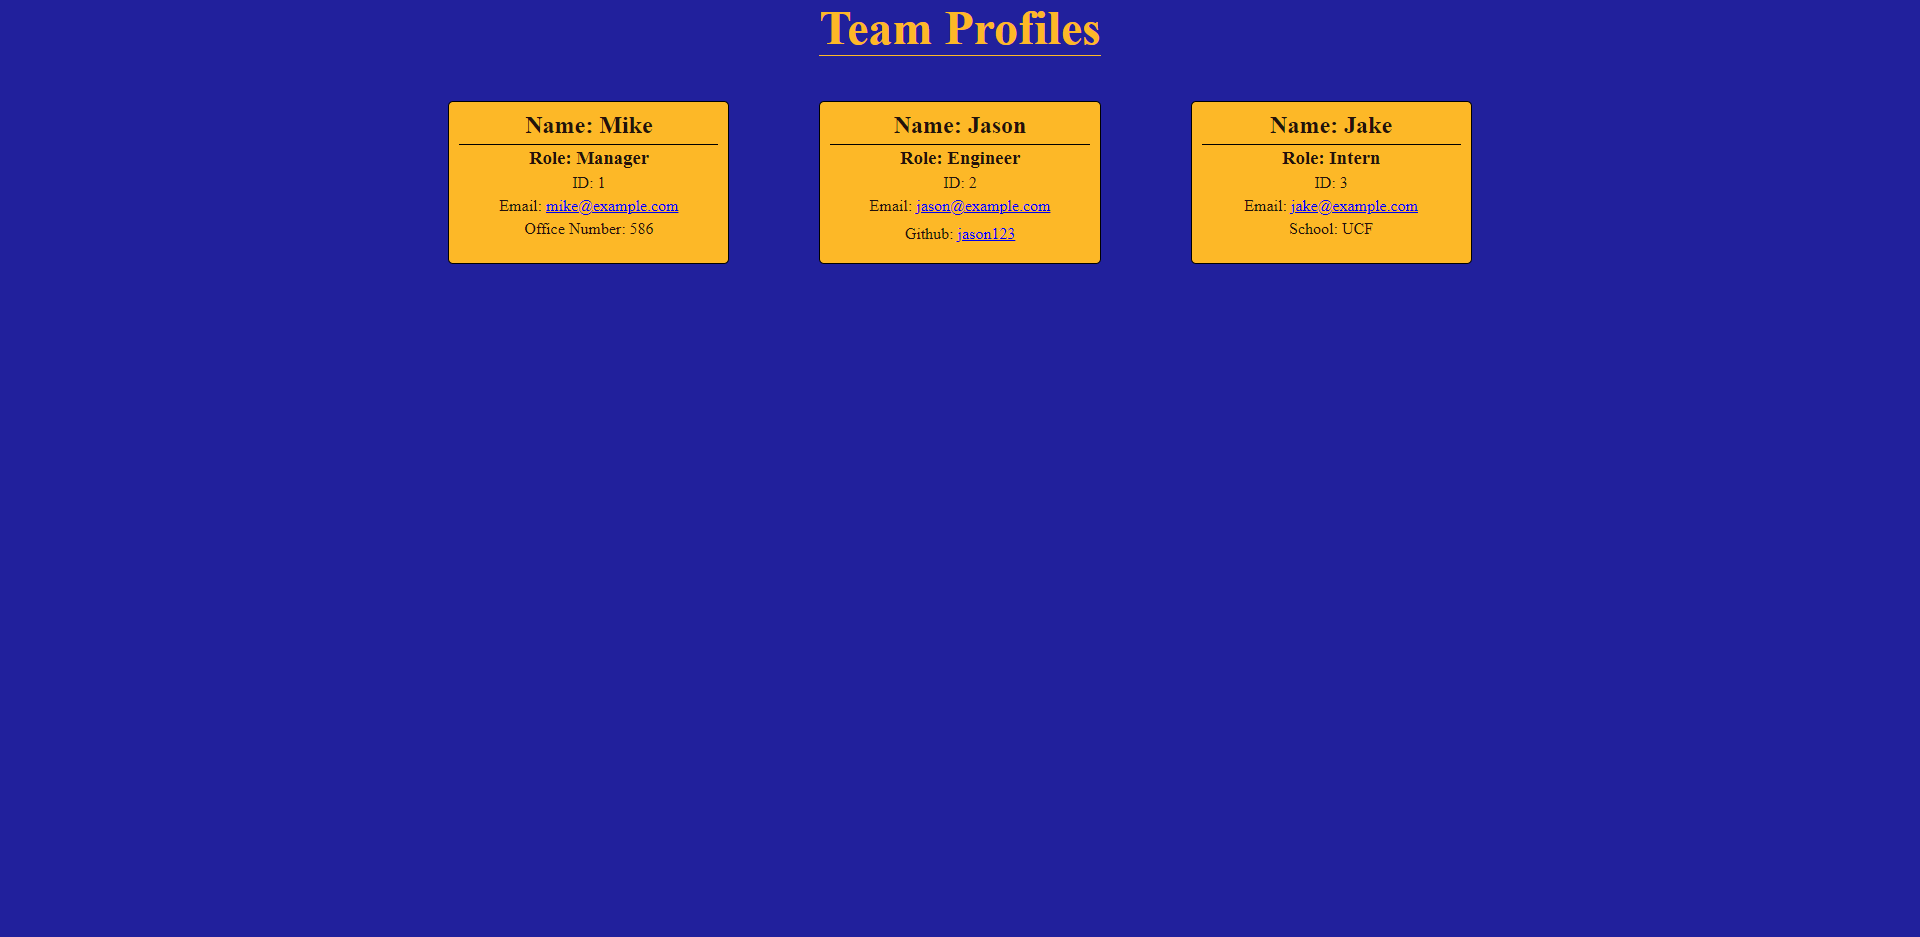
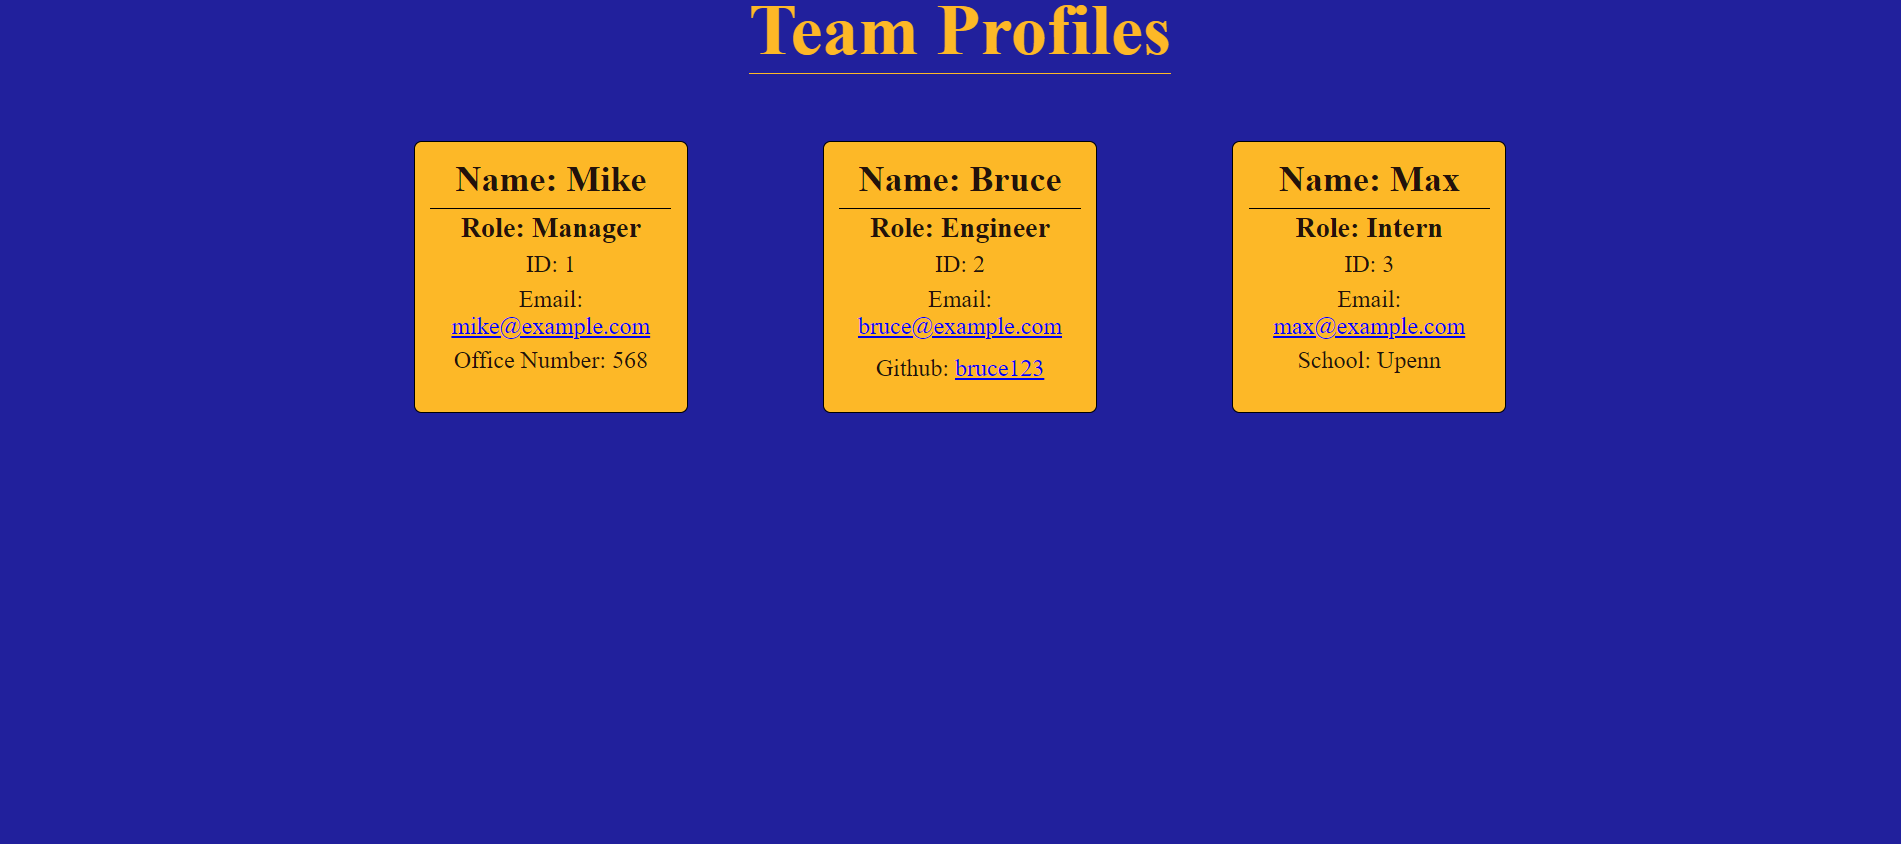
added readme and checked js files.

Changed region(s): [[0.2173, 0.0, 0.6207, 0.4929], [0.6207, 0.0924, 0.8069, 0.4929]]

diff --git a/dist/index.html b/dist/index.html
@@ -16,19 +16,27 @@
                 <div class = "grid">
                 
                     <div>
-                        <h2>Name: jdfsa</h2>
+                        <h2>Name: Mike</h2>
                         <h3>Role: Manager</h3>
-                        <p>ID: dksla</p>
-                        <p>Email: <a href="mailto:https://jfdklsa">jfdklsa</a></p>
-                        <p>Office Number: fjdksaf</p>
+                        <p>ID: 1</p>
+                        <p>Email: <a href="mailto:https://mike@example.com">mike@example.com</a></p>
+                        <p>Office Number: 568</p>
                     </div>
     
                     <div>
-                        <h2>Name: jf</h2>
+                        <h2>Name: Bruce</h2>
+                        <h3>Role: Engineer</h3>
+                        <p>ID: 2</p>
+                        <p>Email: <a href="mailto:https://bruce@example.com">bruce@example.com</a></p>
+                        <p><p>Github: <a href="https://github.com/bruce123">bruce123</a></p></p>
+                    </div>
+    
+                    <div>
+                        <h2>Name: Max</h2>
                         <h3>Role: Intern</h3>
-                        <p>ID: dsjfsdj</p>
-                        <p>Email: <a href="mailto:https://fdsfjasjf">fdsfjasjf</a></p>
-                        <p>School: asdjfsjf</p>
+                        <p>ID: 3</p>
+                        <p>Email: <a href="mailto:https://max@example.com">max@example.com</a></p>
+                        <p>School: Upenn</p>
                     </div>
     
                 </div>

diff --git a/__tests__/Employee.test.js b/__tests__/Employee.test.js
@@ -2,33 +2,33 @@ const { test, expect } = require("@jest/globals");
 const Employee = require("../lib/Employee");
 
 test('Creates new employee object', () => {
-    const employee = new Employee('AJ', '25', 'ajcuddeback@gmail.com');
+    const employee = new Employee('GR', '25', 'gideonrazzaq1158@gmail.com');
 
-    expect(employee.name).toBe('AJ');
+    expect(employee.name).toBe('GR');
     expect(employee.id).toBe('25');
-    expect(employee.email).toBe('ajcuddeback@gmail.com');
+    expect(employee.email).toBe('gideonrazzaq1158@gmail.com');
 });
 
 test('gets employees name', () => {
-    const employee = new Employee('AJ', '25', 'ajcuddeback@gmail.com');
+    const employee = new Employee('GR', '25', 'gideonrazzaq1158@gmail.com');
 
     expect(employee.getName()).toEqual(expect.any(String));
 });
 
 test('gets employees id', () => {
-    const employee = new Employee('AJ', '25', 'ajcuddeback@gmail.com');
+    const employee = new Employee('GR', '25', 'gideonrazzaq1158@gmail.com');
 
     expect(employee.getId()).toEqual(expect.any(String));
 });
 
 test('gets employees email', () => {
-    const employee = new Employee('AJ', '25', 'ajcuddeback@gmail.com');
+    const employee = new Employee('GR', '25', 'gideonrazzaq1158@gmail.com');
 
     expect(employee.getEmail()).toEqual(expect.any(String));
 });
 
 test('gets the employees role', () => {
-    const employee = new Employee('AJ', '25', 'ajcuddeback@gmail.com');
+    const employee = new Employee('GR', '25', 'gideonrazzaq1158@gmail.com');
 
     expect(employee.getRole()).toBe("Role: Employee");
 });

diff --git a/__tests__/Engineer.test.js b/__tests__/Engineer.test.js
@@ -2,22 +2,22 @@ const { test, expect } = require("@jest/globals");
 const Engineer = require("../lib/Engineer");
 
 test('Creates enginineer object', () => {
-    const engineer = new Engineer('AJ', '25', 'ajcuddeback@gmail.com', 'ajcuddeback');
+    const engineer = new Engineer('GR', '25', 'gideonrazzaq1158@gmail.com', 'Gideonraz');
 
-    expect(engineer.name).toBe('AJ');
+    expect(engineer.name).toBe('GR');
     expect(engineer.id).toBe('25');
-    expect(engineer.email).toBe('ajcuddeback@gmail.com');
-    expect(engineer.github).toBe('ajcuddeback');
+    expect(engineer.email).toBe('gideonrazzaq1158@gmail.com');
+    expect(engineer.github).toBe('Gideonraz');
 });
 
 test('gets engineers github', () => {
-    const engineer = new Engineer('AJ', '25', 'ajcuddeback@gmail.com', 'ajcuddeback');
+    const engineer = new Engineer('GR', '25', 'gideonrazzaq1158@gmail.com', 'Gideonraz');
 
-    expect(engineer.getGithub()).toBe('https://github.com/ajcuddeback/')
+    expect(engineer.getGithub()).toBe('https://github.com/Gideonraz/')
 })
 
 test('gets role of engineer', () => {
-    const engineer = new Engineer('AJ', '25', 'ajcuddeback@gmail.com', 'ajcuddeback');
+    const engineer = new Engineer('GR', '25', 'gideonrazzaq1158@gmail.com', 'Gideonraz');
 
     expect(engineer.getRole()).toBe('Role: Engineer');
 });

diff --git a/__tests__/Intern.test.js b/__tests__/Intern.test.js
@@ -2,22 +2,22 @@ const { test, expect } = require("@jest/globals")
 const Intern = require("../lib/Intern")
 
 test('creates intern object', () => {
-    const intern = new Intern('AJ', '25', 'ajcuddeback@gmail.com', 'UCF');
+    const intern = new Intern('GR', '25', 'gideonrazzaq1158@gmail.com', 'UCF');
 
-    expect(intern.name).toBe('AJ');
+    expect(intern.name).toBe('GR');
     expect(intern.id).toBe('25');
-    expect(intern.email).toBe('ajcuddeback@gmail.com');
-    expect(intern.school).toBe('UCF');
+    expect(intern.email).toBe('gideonrazzaq1158@gmail.com');
+    expect(intern.school).toBe('UPENN');
 });
 
 test('gets the interns school', () => {
-    const intern = new Intern('ajcuddeback', 'AJ', '25', 'UCF');
+    const intern = new Intern('Gideonraz', 'GR', '25', 'UPENN');
 
-    expect(intern.getSchool()).toBe('School: UCF');
+    expect(intern.getSchool()).toBe('School: UPENN');
 });
 
 test('gets the interns role', () => {
-    const intern = new Intern('ajcuddeback', 'AJ', '25', 'UCF');
+    const intern = new Intern('Gideonraz', 'GR', '25', 'UPENN');
 
     expect(intern.getRole()).toBe('Role: Intern');
 });

diff --git a/__tests__/Manager.test.js b/__tests__/Manager.test.js
@@ -2,22 +2,22 @@ const { test, expect } = require("@jest/globals")
 const Manager = require("../lib/Manager")
 
 test('creates manager object', () => {
-    manager = new Manager('AJ', '25', 'ajcuddeback@gmail.com', '52');
+    manager = new Manager('GR', '25', 'gideonrazzaq1158@gmail.com', '52');
 
-    expect(manager.name).toBe('AJ');
+    expect(manager.name).toBe('GR');
     expect(manager.id).toBe('25');
-    expect(manager.email).toBe('ajcuddeback@gmail.com');
+    expect(manager.email).toBe('gideonrazzaq1158@gmail.com');
     expect(manager.officeNumber).toBe('52');
 });
 
 test('gets managers office number', () => {
-    manager = new Manager('AJ', '25', 'ajcuddeback@gmail.com', '52');
+    manager = new Manager('GR', '25', 'gideonrazzaq1158@gmail.com', '52');
 
     expect(manager.getOfficeNumber()).toBe('Office Number: 52');
 });
 
 test('gets managers role', () => {
-    manager = new Manager('AJ', '25', 'ajcuddeback@gmail.com', '52');
+    manager = new Manager('GR', '25', 'gideonrazzaq1158@gmail.com', '52');
 
     expect(manager.getRole()).toBe("Role: Manager")
 })

diff --git a/README.md b/README.md
@@ -1,8 +1,7 @@
-![GitHub](https://img.shields.io/github/license/ajcuddeback/team-profile-generator)
-![GitHub top language](https://img.shields.io/github/languages/top/ajcuddeback/team-profile-generator)
-![GitHub code size in bytes](https://img.shields.io/github/languages/code-size/ajcuddeback/team-profile-generator)
-![GitHub issues](https://img.shields.io/github/issues/ajcuddeback/team-profile-generator)
-![YouTube Video Views](https://img.shields.io/youtube/views/q0_egGq6hzE?label=YT%20Views&logo=youtube&logoColor=red&style=flat-square)
+![GitHub](https://img.shields.io/github/license/Gideonraz/team-profile-generator)
+![GitHub top language](https://img.shields.io/github/languages/top/Gideonraz/team-profile-generator)
+![GitHub code size in bytes](https://img.shields.io/github/languages/code-size/Gideonraz/team-profile-generator)
+![GitHub issues](https://img.shields.io/github/issues/Gideonraz/team-profile-generator)
 
 # Team Profile Generator
 
@@ -26,39 +25,31 @@ In order to install this project you must clone this project on to your local ma
 
 ## Usage
 
-This project usage is for anyone that needs to make a team profile roster with a clean design!
+This project usage is for anyone that needs to make a team profile roster with a good design.
 
 ## Instructions
 
-- If you would like to view a video on how to install and use, go to my [Youtube Channel](https://youtu.be/q0_egGq6hzE)
 
-- Step 1: Clone this repository
+- Step 1: Clone this repository from github
 
-![step-1](images/step-1.png)
 
 - Step 2: Open project in your terminal and run 'npm install' to install all dependencies
 
-![step-2](images/step-2.png)
 
 - Step 3: Run 'node index' in the terminal while in root directory of the cloned project
 
-![step-3](images/step-3.png)
 
-- Step 4: Answer the prompts
+- Step 4: Answer the questions
 
-![step-4](images/Step-4.png)
 
 - Step 5: Once you finish answering the prompts type 'code .' in the terminal
 
-![step-5](images/Step-5.png)
 
 Step 6: Navigate to the dist folder
 
-![step-6](images/Step-6.png)
 
 - Step 7: An HTML File will be created that you can then open in your browser to view all your employees!
 
-![step-7](images/Step-7.png)
 
 ## Final Product Preview
 
